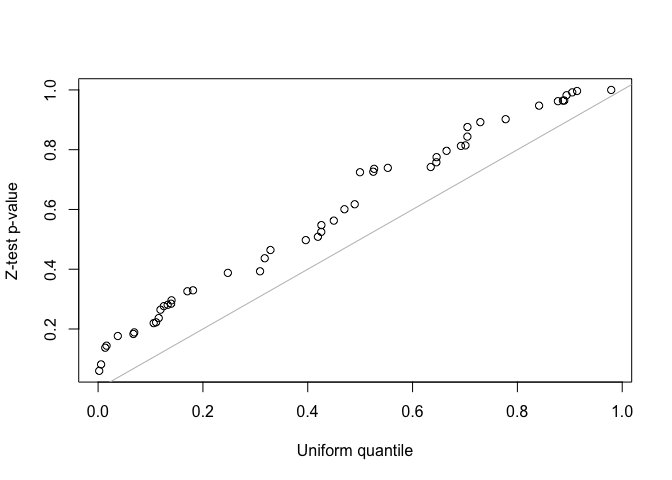
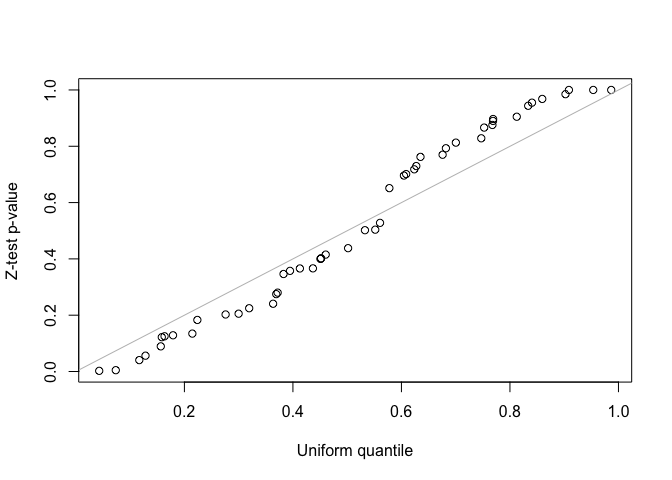
Initial commit

diff --git a/README.md b/README.md
@@ -198,12 +198,15 @@ with two-component random effects.
 ## generated.
 set.seed(2508)
 n <- nrow(metadata)
-metadata$time <- runif(n) + runif(n, 1, 2) * sample(0:1, n, replace = TRUE)
+metadata$time <- rnorm(n, 8) + rnorm(n, 8) * sample(0:1, n, replace = TRUE)
 Za <- model.matrix(~0 + sam + sam:time, data = metadata)
 da <- c(ncol(Za)/2, ncol(Za)/2)  #dimension
 
 ## Fit the LMM with Two-component random effects.
 fit2 <- lmmfit(Y, X, Za, d = da, method = "ML")
+#> Warning in lmm(XX, XY, ZX, ZY, ZZ, Ynorm = Ynorm, n = n, d = d, theta0 =
+#> theta0, : 1 features (the rows of Y) for which fitting LMM doesn't converge
+#> with abs(dlogL) > epsilon, 1e-05
 ```
 
 ### Testing variance components
